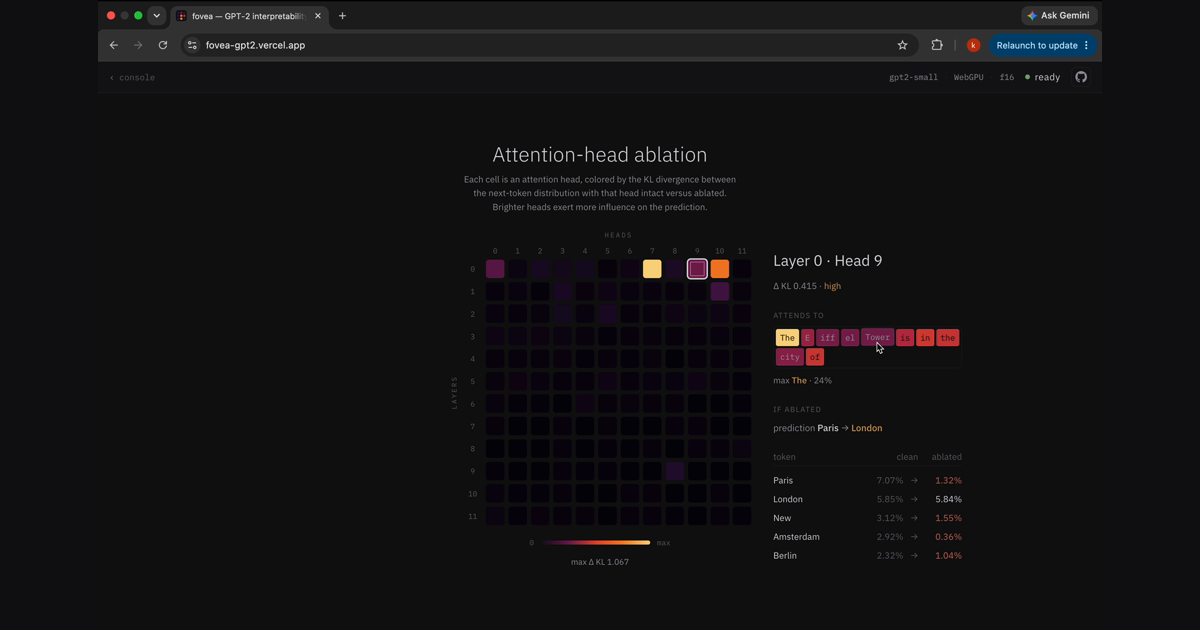
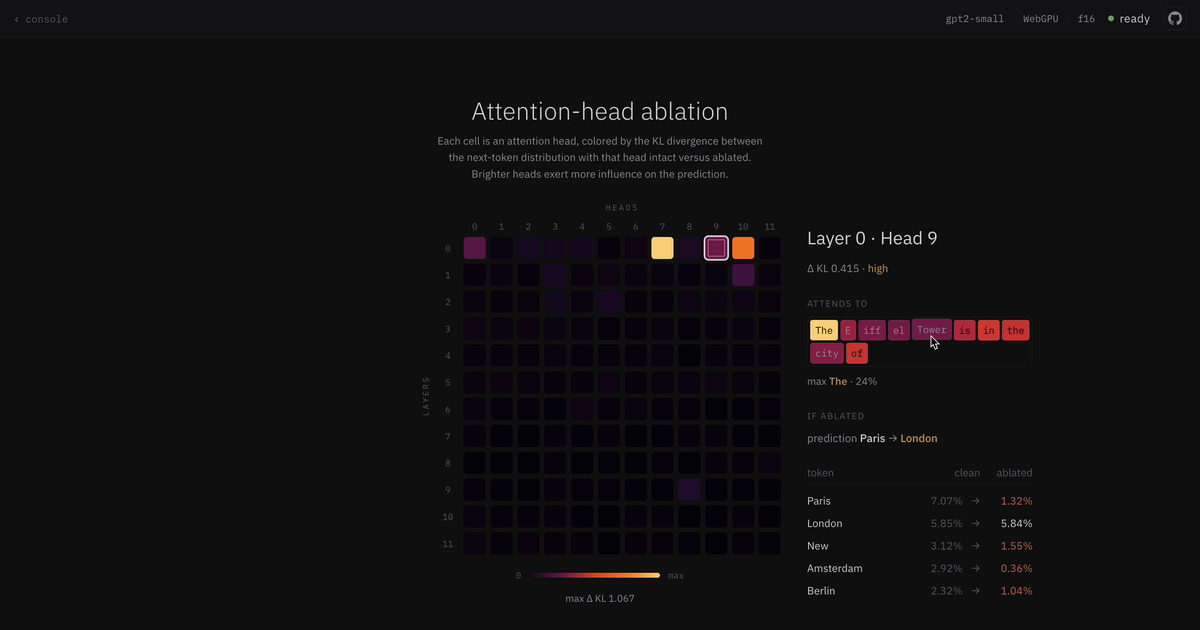
gate mobile and touch devices to the desktop-required screen

diff --git a/src/ui/main.ts b/src/ui/main.ts
@@ -215,14 +215,17 @@ function unsupportedScreen(): HTMLElement {
       el("div", { class: "nogpu-mark" }, ["fovea"]),
       el("p", { class: "nogpu-lead" }, ["Delete an attention head from GPT-2 and watch what it forgets."]),
       shot,
-      el("p", { class: "nogpu-msg" }, ["Fovea runs GPT-2 on your GPU with WebGPU, which this browser doesn't support. Open it on a desktop in Chrome or Edge (114+)."]),
+      el("p", { class: "nogpu-msg" }, ["Fovea downloads GPT-2 and runs it locally on your GPU, so it needs a desktop browser (Chrome or Edge). Open it on a computer to try the live tool."]),
       el("a", { class: "nogpu-gh", href: "https://github.com/ryanshabaneh/fovea", target: "_blank", rel: "noopener noreferrer" }, ["View source on GitHub →"]),
     ]),
   ]);
 }
 
 async function start(): Promise<void> {
-  if (!navigator.gpu) { app.replaceChildren(unsupportedScreen()); return; }
+  // Phones/tablets often expose navigator.gpu but can't realistically download a
+  // 248 MB model and run GPT-2, so gate on a fine pointer (desktop) too.
+  const isDesktop = matchMedia("(pointer: fine)").matches;
+  if (!navigator.gpu || !isDesktop) { app.replaceChildren(unsupportedScreen()); return; }
 
   const t0 = performance.now();
   app.replaceChildren(bootScreen.element);
